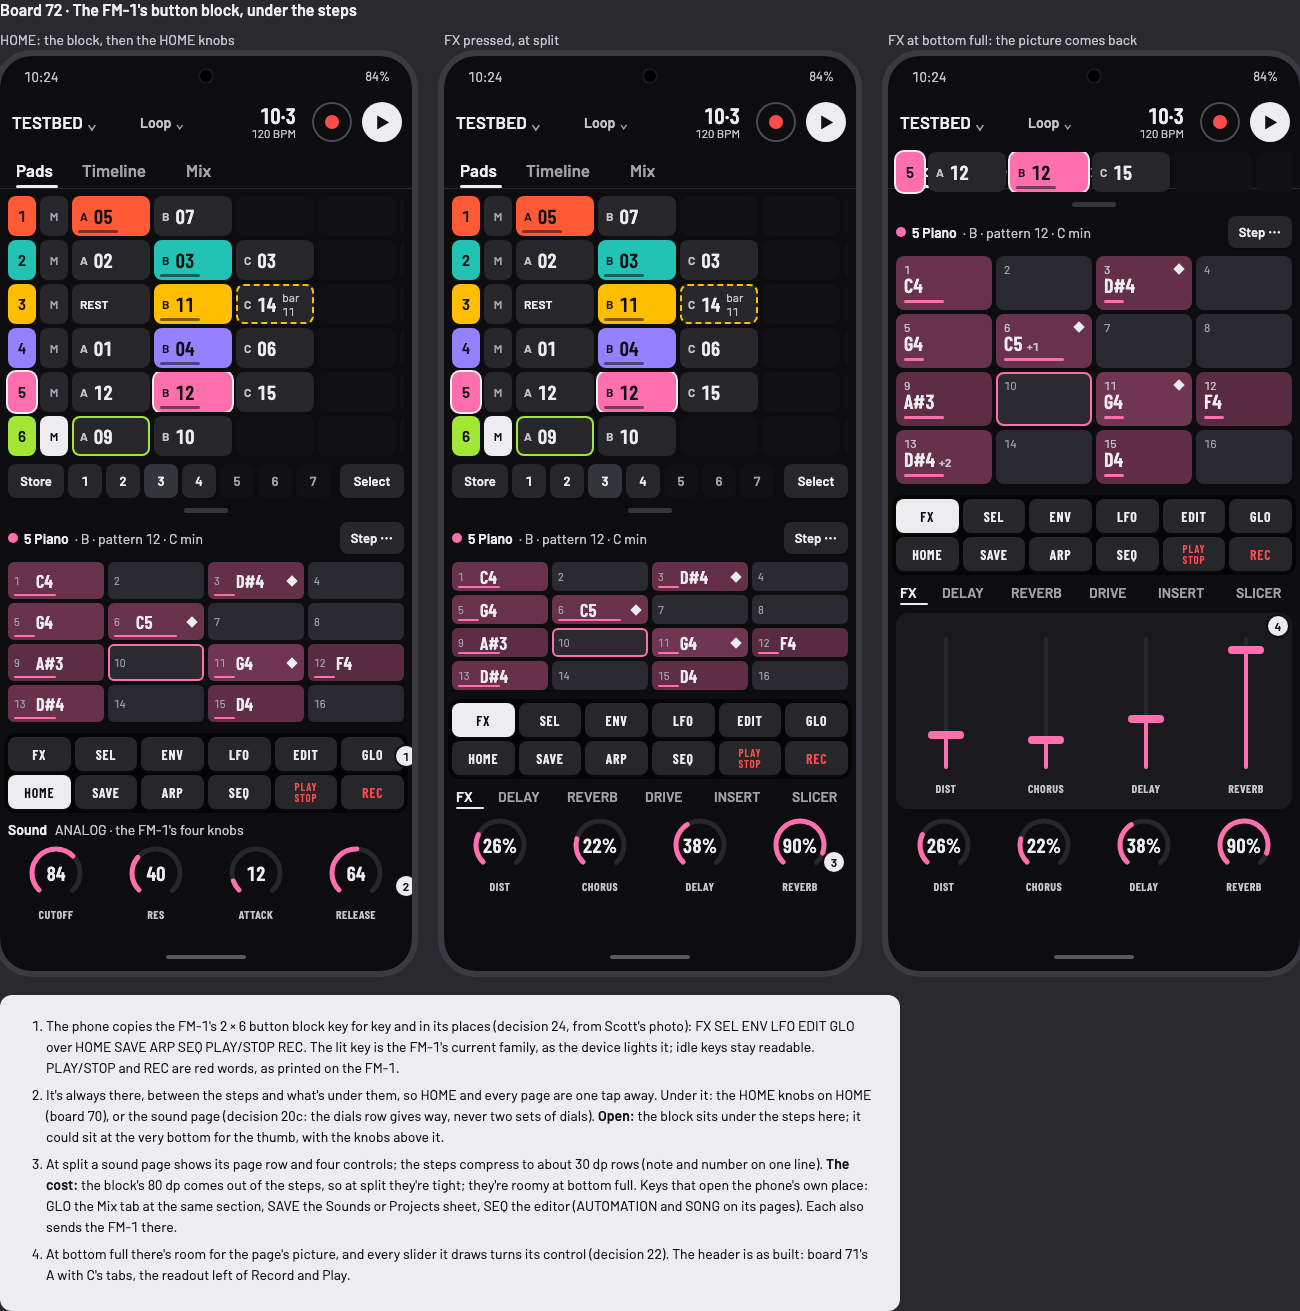
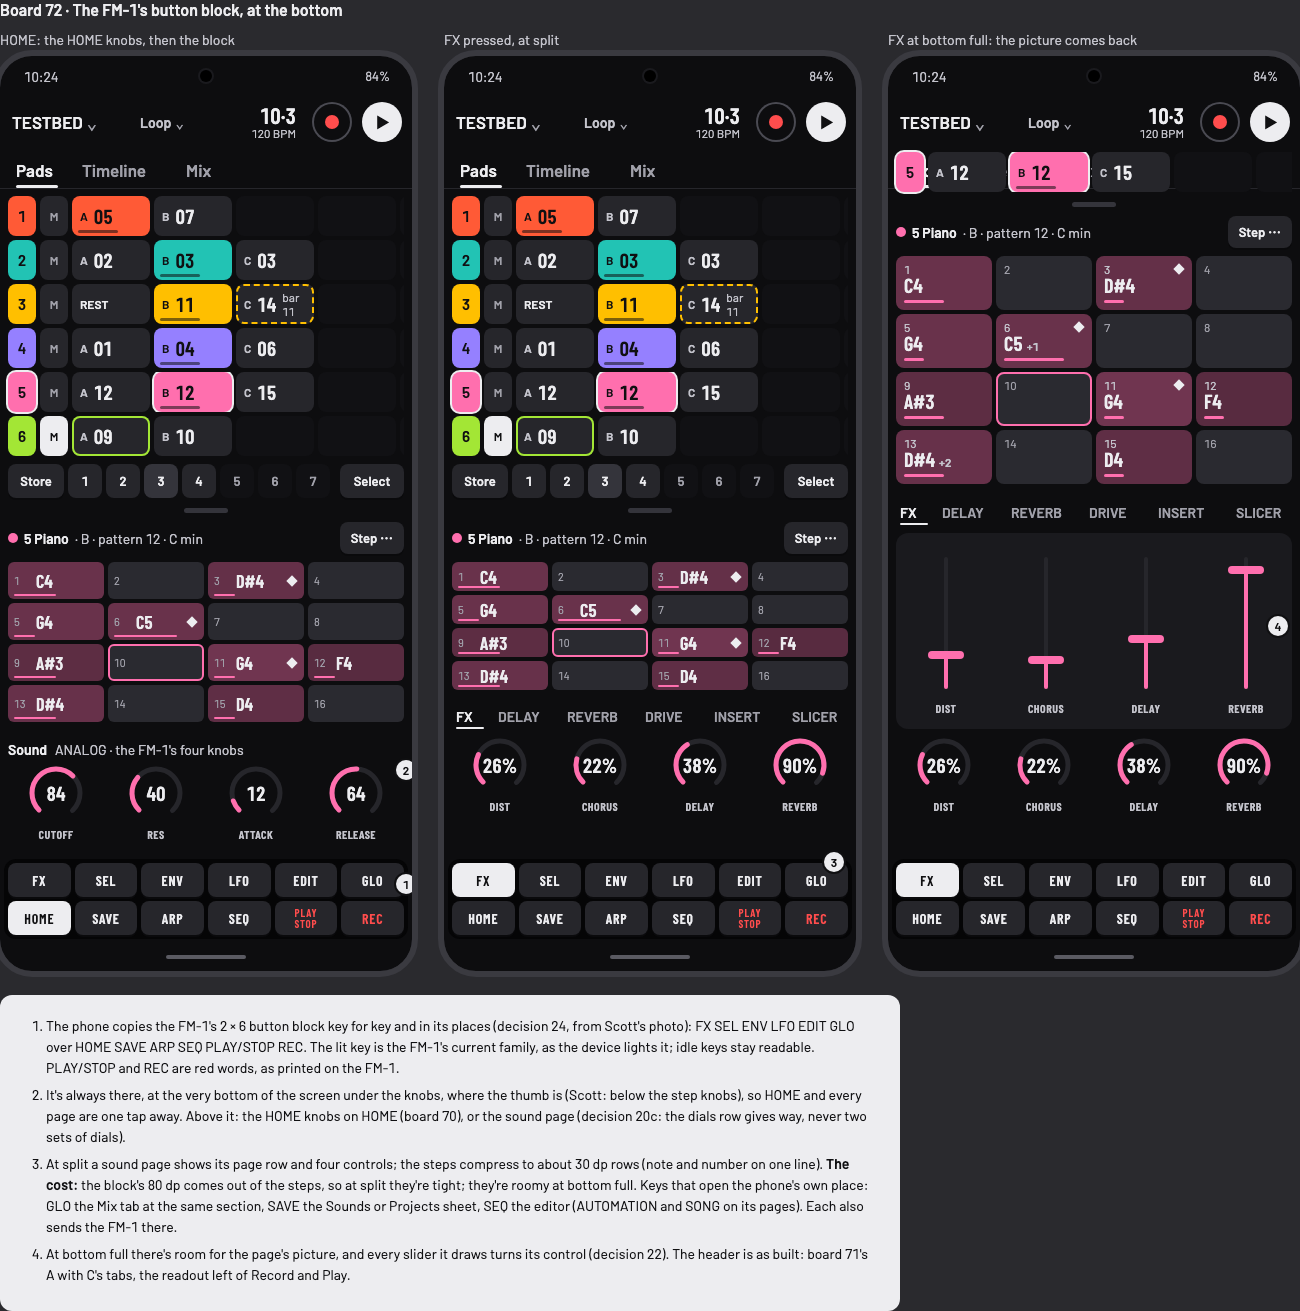
design: board 72, the button block moves to the bottom, under the knobs (Scott)

diff --git a/design/boards/phone-portrait-2.html b/design/boards/phone-portrait-2.html
@@ -797,11 +797,11 @@ function blockEditor(y0, h0, o = {}) {
     `<span style="width:10px;height:10px;border-radius:5px;background:${COL[SEL]}"></span><span style="font-weight:600">5 Piano</span><span style="color:var(--text2r)">· B · pattern 12 · C min</span>`);
   h += el('key', 340, y0, 64, 32, '', 'Step ⋯', 'aria-label="Step menu"');
   const blockH = 76, under = o.sound ? (o.full ? 360 : 156) : 122;
-  const gy = y0 + 40, gh = h0 - 40 - 8 - blockH - 8 - under;
+  const gy = y0 + 40, gh = h0 - 40 - 8 - under - 8 - blockH;
   h += (gh < 220 ? miniGrid(gy, gh) : grid(gy, gh, { noSel: true }));
-  const by = gy + gh + 12;
-  h += fmBlock(by, o.sound ? 'FX' : 'HOME');
-  const uy = by + blockH + 4;
+  const uy = gy + gh + 12;
+  // the block sits at the very bottom, under the knobs or the sound page (Scott, 2026-11-13)
+  h += fmBlock(y0 + h0 - blockH, o.sound ? 'FX' : 'HOME');
   if (!o.sound) {
     // the HOME knobs (board 70)
     h += el('', 8, uy, 300, 24, 'display:flex;align-items:center;gap:8px;font-size:14px;white-space:nowrap', `<span style="font-weight:600">Sound</span><span style="color:var(--text2r)">ANALOG · the FM-1's four knobs</span>`);
@@ -842,13 +842,13 @@ function headA2(o) {
   h += el('', 0, 132, W, 1, 'background:var(--control)');
   return h;
 }
-board2(72, 'The FM-1\'s button block, under the steps', [
-  { cap: 'HOME: the block, then the HOME knobs', head: headA2, bottom: (y, h) => blockEditor(y, h, {}), label: 'Steps, the button block with HOME lit, the HOME knobs', discs: [[1, 396, 690], [2, 396, 820]] },
+board2(72, 'The FM-1\'s button block, at the bottom', [
+  { cap: 'HOME: the HOME knobs, then the block', head: headA2, bottom: (y, h) => blockEditor(y, h, {}), label: 'Steps, the button block with HOME lit, the HOME knobs', discs: [[1, 396, 818], [2, 396, 704]] },
   { cap: 'FX pressed, at split', head: headA2, bottom: (y, h) => blockEditor(y, h, { sound: true }), label: 'Steps, the block with FX lit, the FX page\'s controls', discs: [[3, 380, 796]] },
   { cap: 'FX at bottom full: the picture comes back', head: headA2, mode: 'bottom', bottom: (y, h) => blockEditor(y, h, { sound: true, full: true }), label: 'Bottom full: steps, block, FX picture and controls', discs: [[4, 380, 560]] },
 ], [
   'The phone copies the FM-1\'s 2 × 6 button block key for key and in its places (decision 24, from Scott\'s photo): FX SEL ENV LFO EDIT GLO over HOME SAVE ARP SEQ PLAY/STOP REC. The lit key is the FM-1\'s current family, as the device lights it; idle keys stay readable. PLAY/STOP and REC are red words, as printed on the FM-1.',
-  'It\'s always there, between the steps and what\'s under them, so HOME and every page are one tap away. Under it: the HOME knobs on HOME (board 70), or the sound page (decision 20c: the dials row gives way, never two sets of dials). <span class="q">Open:</span> the block sits under the steps here; it could sit at the very bottom for the thumb, with the knobs above it.',
+  'It\'s always there, at the very bottom of the screen under the knobs, where the thumb is (Scott: below the step knobs), so HOME and every page are one tap away. Above it: the HOME knobs on HOME (board 70), or the sound page (decision 20c: the dials row gives way, never two sets of dials).',
   'At split a sound page shows its page row and four controls; the steps compress to about 30 dp rows (note and number on one line). <b>The cost:</b> the block\'s 80 dp comes out of the steps, so at split they\'re tight; they\'re roomy at bottom full. Keys that open the phone\'s own place: GLO the Mix tab at the same section, SAVE the Sounds or Projects sheet, SEQ the editor (AUTOMATION and SONG on its pages). Each also sends the FM-1 there.',
   'At bottom full there\'s room for the page\'s picture, and every slider it draws turns its control (decision 22). The header is as built: board 71\'s A with C\'s tabs, the readout left of Record and Play.',
 ]);
